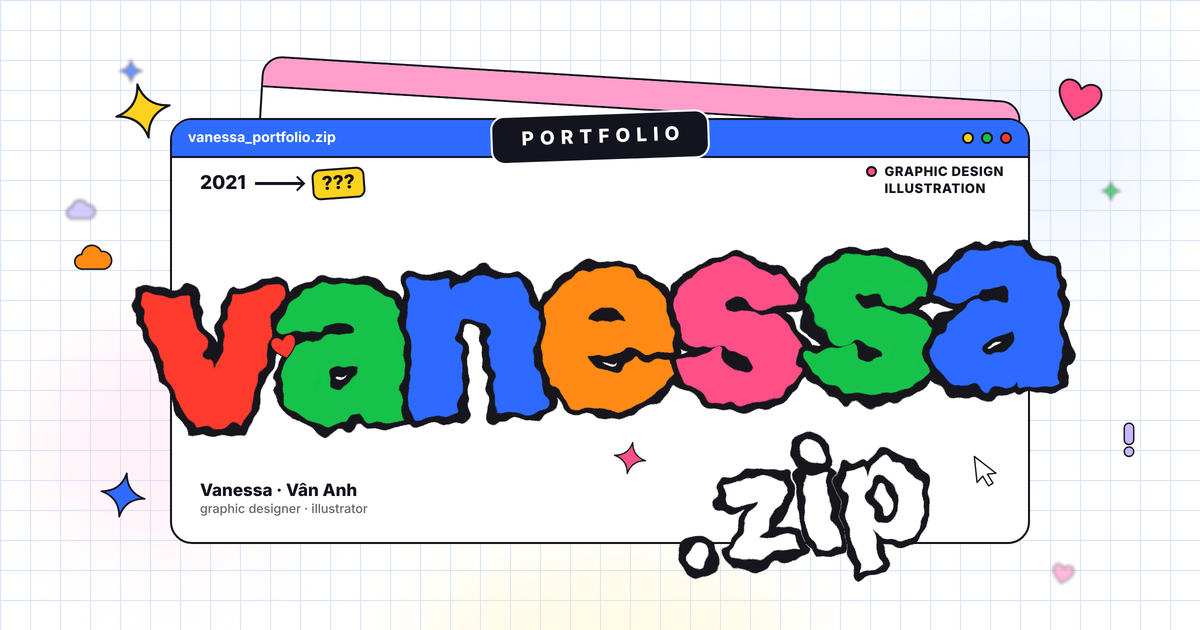
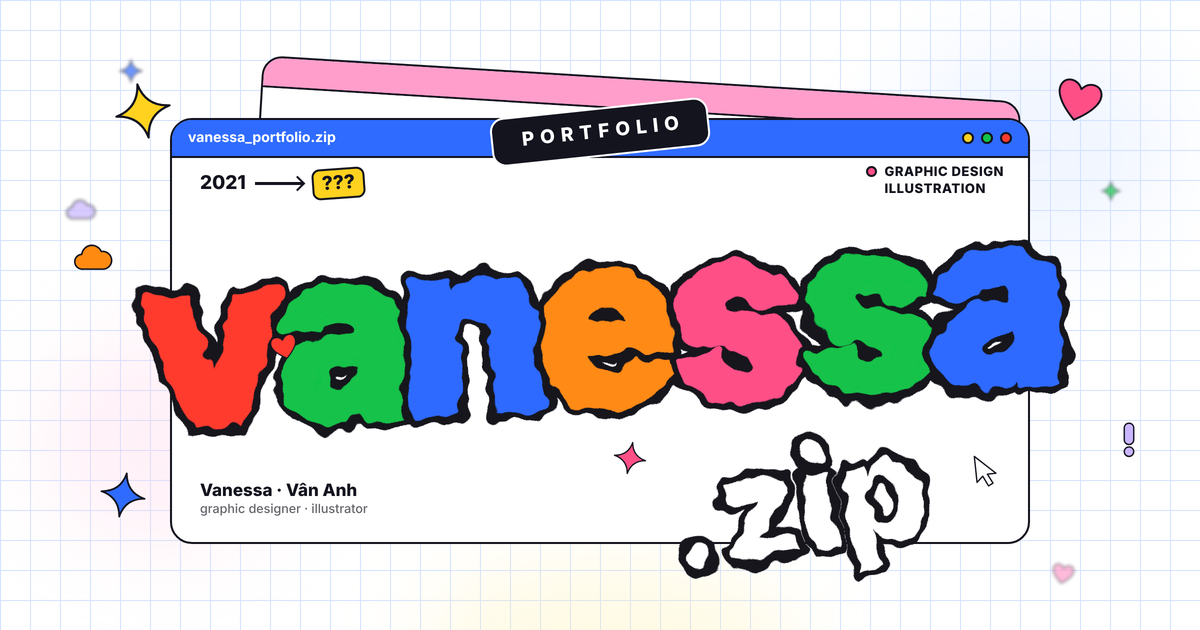
Share cover: tilt the PORTFOLIO pill
Claude-Session: https://claude.ai/code/session_012pbfGyVDGdDDVEyPQMMkMk

Changed region(s): [[0.4008, 0.1508, 0.6167, 0.2714]]

diff --git a/preview.html b/preview.html
@@ -1,7 +1,7 @@
[1 lines of base64/hex data omitted]
 <meta property="og:type" content="website"><meta property="og:url" content="https://vanessaportfolio.space/"><meta property="og:title" content="vanessa.zip · portfolio"><meta property="og:description" content="Graphic designer &amp; illustrator from Da Nang. Branding, illustration, logo &amp; mascot.">
-<meta property="og:image" content="https://vanessaportfolio.space/og-image.png?v=5"><meta property="og:image:width" content="1200"><meta property="og:image:height" content="630"><meta property="og:image:alt" content="vanessa.zip portfolio cover">
-<meta name="twitter:card" content="summary_large_image"><meta name="twitter:title" content="vanessa.zip · portfolio"><meta name="twitter:image" content="https://vanessaportfolio.space/og-image.png?v=5"><!--/og--><title>vanessa.zip</title>
+<meta property="og:image" content="https://vanessaportfolio.space/og-image.png?v=6"><meta property="og:image:width" content="1200"><meta property="og:image:height" content="630"><meta property="og:image:alt" content="vanessa.zip portfolio cover">
+<meta name="twitter:card" content="summary_large_image"><meta name="twitter:title" content="vanessa.zip · portfolio"><meta name="twitter:image" content="https://vanessaportfolio.space/og-image.png?v=6"><!--/og--><title>vanessa.zip</title>
 <link href="https://fonts.googleapis.com/css2?family=Baloo+2:wght@500;700;800&family=Mali:wght@600;700&display=swap" rel="stylesheet">
 <style>
 :root{color-scheme:light;--bg:#fff;--grid:#dce7ff;--ink:#14141f;--txt:#14141f;--blue:#2f6bff;--red:#ff3b2f;--green:#12c24a;--org:#ff8a12;--pink:#ff4f87;--yel:#ffd21f;--f:"Baloo 2","Trebuchet MS",system-ui,sans-serif;--h:"Mali","Patrick Hand","Comic Sans MS",cursive;box-sizing:border-box;padding-top:env(safe-area-inset-top,0px);padding-bottom:env(safe-area-inset-bottom,0px)}

diff --git a/index.html b/index.html
@@ -1,7 +1,7 @@
[1 lines of base64/hex data omitted]
 <meta property="og:type" content="website"><meta property="og:url" content="https://vanessaportfolio.space/"><meta property="og:title" content="vanessa.zip · portfolio"><meta property="og:description" content="Graphic designer &amp; illustrator from Da Nang. Branding, illustration, logo &amp; mascot.">
-<meta property="og:image" content="https://vanessaportfolio.space/og-image.png?v=5"><meta property="og:image:width" content="1200"><meta property="og:image:height" content="630"><meta property="og:image:alt" content="vanessa.zip portfolio cover">
-<meta name="twitter:card" content="summary_large_image"><meta name="twitter:title" content="vanessa.zip · portfolio"><meta name="twitter:image" content="https://vanessaportfolio.space/og-image.png?v=5"><!--/og--><title>vanessa.zip</title>
+<meta property="og:image" content="https://vanessaportfolio.space/og-image.png?v=6"><meta property="og:image:width" content="1200"><meta property="og:image:height" content="630"><meta property="og:image:alt" content="vanessa.zip portfolio cover">
+<meta name="twitter:card" content="summary_large_image"><meta name="twitter:title" content="vanessa.zip · portfolio"><meta name="twitter:image" content="https://vanessaportfolio.space/og-image.png?v=6"><!--/og--><title>vanessa.zip</title>
 <link href="https://fonts.googleapis.com/css2?family=Baloo+2:wght@500;700;800&family=Mali:wght@600;700&display=swap" rel="stylesheet">
 <style>
 :root{color-scheme:light;--bg:#fff;--grid:#dce7ff;--ink:#14141f;--txt:#14141f;--blue:#2f6bff;--red:#ff3b2f;--green:#12c24a;--org:#ff8a12;--pink:#ff4f87;--yel:#ffd21f;--f:"Baloo 2","Trebuchet MS",system-ui,sans-serif;--h:"Mali","Patrick Hand","Comic Sans MS",cursive;box-sizing:border-box;padding-top:env(safe-area-inset-top,0px);padding-bottom:env(safe-area-inset-bottom,0px)}
